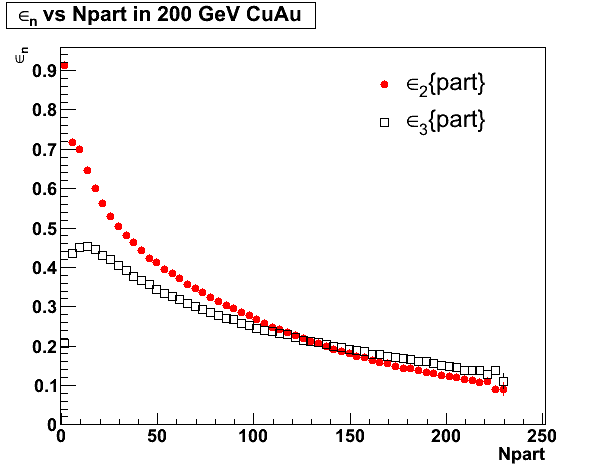
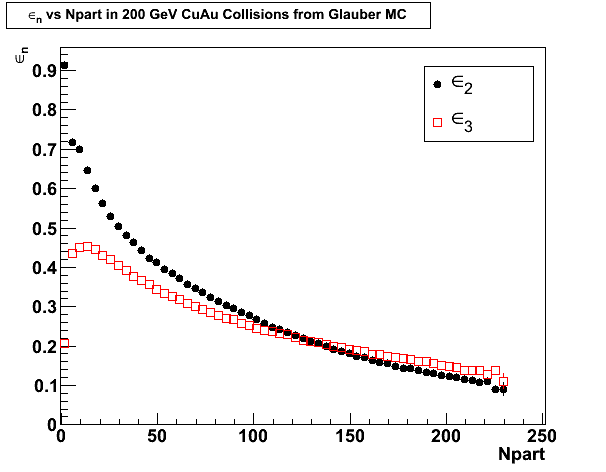
replot of the fig

diff --git a/glauber/CuAu/plot.C b/glauber/CuAu/plot.C
@@ -3,15 +3,14 @@ void plot(){
   gROOT->SetStyle("Plain");
   TFile *infile = new TFile("/Users/tuos/Desktop/soft/glauberv2/tglaubermc/cuAu/glauberCuAu_default_1M.root","read");
   infile->cd();
-
   TCanvas *c1 = new TCanvas("c1","c1",100,100,610,500);
   c1->cd();
-  TProfile *pEcc2Npart = new TProfile("pEcc2Npart","#epsilon_{n} vs Npart in 200 GeV CuAu;Npart;#epsilon_{n}",252,-0.5,251.5);
+  TProfile *pEcc2Npart = new TProfile("pEcc2Npart","#epsilon_{n} vs Npart in 200 GeV CuAu Collisions from Glauber MC;Npart;#epsilon_{n}",252,-0.5,251.5);
   nt_Cu_Au->Project("pEcc2Npart","Ecc2:Npart");
   pEcc2Npart->SetMarkerSize(1);
-  pEcc2Npart->SetMarkerColor(2);
+  pEcc2Npart->SetMarkerColor(1);
   pEcc2Npart->SetMarkerStyle(20);
-  pEcc2Npart->SetLineColor(2);
+  pEcc2Npart->SetLineColor(1);
   pEcc2Npart->SetStats(0);
   int rebins=4;
   pEcc2Npart->Rebin(rebins);
@@ -19,19 +18,19 @@ void plot(){
   TProfile *pEcc3Npart = new TProfile("pEcc3Npart","#epsilon_{n} vs Npart in 200 GeV CuAu;Npart;#epsilon_{n}",252,-0.5,251.5);
   nt_Cu_Au->Project("pEcc3Npart","Ecc3:Npart");
   pEcc3Npart->SetMarkerSize(1);
-  pEcc3Npart->SetMarkerColor(1);
+  pEcc3Npart->SetMarkerColor(2);
   pEcc3Npart->SetMarkerStyle(25);
-  pEcc3Npart->SetLineColor(1);
+  pEcc3Npart->SetLineColor(2);
   pEcc3Npart->SetStats(0);
   pEcc3Npart->Rebin(rebins);
   pEcc3Npart->Draw("psame");
-  TLegend *leg = new TLegend(0.6,0.7,0.88,0.86);
+  TLegend *leg = new TLegend(0.7,0.7,0.88,0.86);
   leg->SetFillColor(10);
-  leg->SetBorderSize(0);
+  leg->SetBorderSize(1);
   leg->SetTextFont(42);
   leg->SetTextSize(0.055);
-  leg->AddEntry(pEcc2Npart,"#epsilon_{2}{part}","p");
-  leg->AddEntry(pEcc3Npart,"#epsilon_{3}{part}","p");
+  leg->AddEntry(pEcc2Npart,"#epsilon_{2}","p");
+  leg->AddEntry(pEcc3Npart,"#epsilon_{3}","p");
   leg->Draw();
   c1->SaveAs("epsilonNvsNpart_CuAu.png");
 
